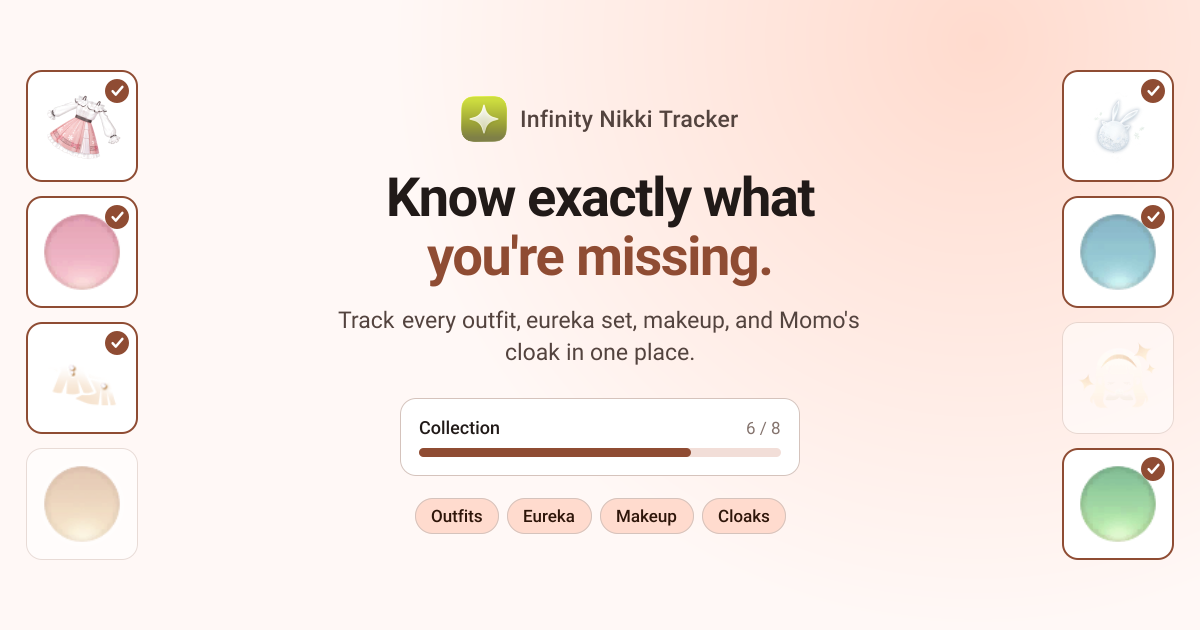
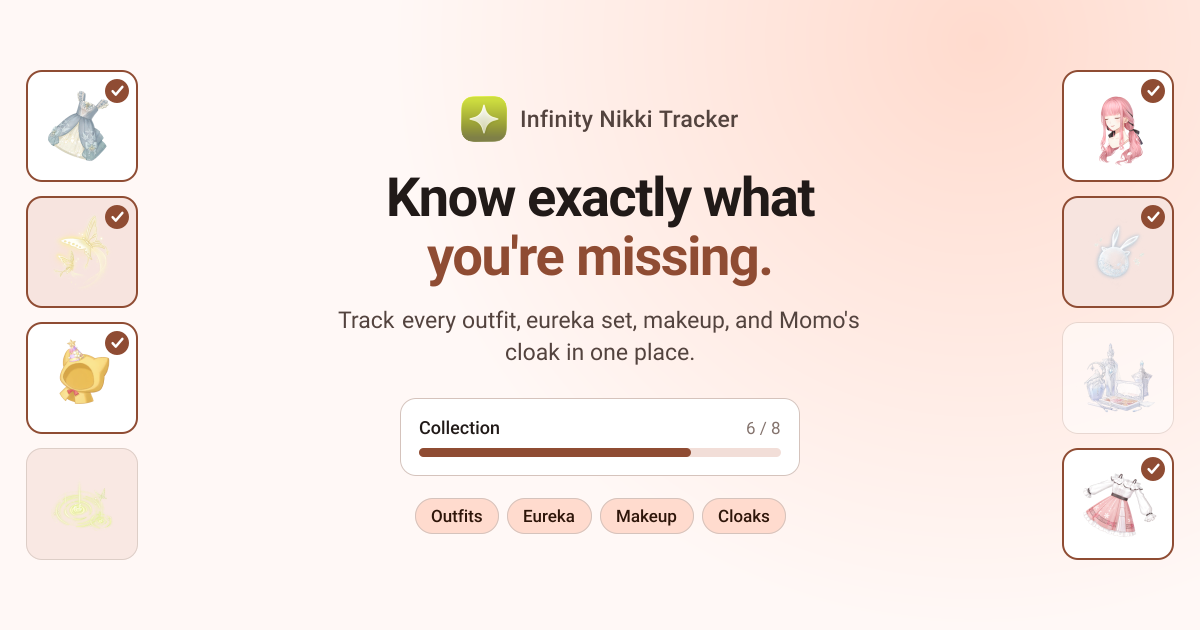
feat(og): use the full set of real quick-access artwork
Swaps the OG card's tile strips onto all eight images in
public/quick-access, so every collection type the copy names is
actually pictured: dresses, hair, a Momo cloak, a makeup set, and
eureka pieces.

The eureka art is glowing line work on transparency and measures far
fainter than the rest (contrast ~11-15 against ~57-73 for the gowns
and hair). On a plain white tile it nearly vanishes, so those pieces
are marked `faint` and sit on a surface tone the way the real cards
do. Their unobtained dimming is also gentler — 0.8 rather than 0.55 —
because stacking a low-contrast piece with the full fade made the
tile read as empty rather than as unobtained.

Each strip opens with a high-contrast piece rather than grouping the
faint ones together, since the top tiles are what a viewer scans first.

diff --git a/lib/og-image-template.tsx b/lib/og-image-template.tsx
@@ -41,20 +41,23 @@ function robotoPath(weight: 400 | 500 | 700) {
 // These are the local copies already shipped in public/ — the collection's own
 // images live in Supabase Storage and can't be fetched at build time.
 const TILE_ART = [
-  // The two full-art pieces lead each strip: they are the only local copies of
-  // real collection artwork, and at 112px they carry the card. The nav glyphs
-  // that follow are sparse line art by design, so they are paired with the
-  // denser Eureka colour swatches rather than stacked together where their
-  // thinness reads as an empty tile.
-  { file: 'public/quick-access/perfect-start-alt.png', obtained: true },
-  { file: 'public/icons/categories/pink.png', obtained: true },
-  { file: 'public/icons/outfits.png', obtained: true },
-  { file: 'public/icons/categories/yellow.png', obtained: false },
+  // All eight are real artwork from public/quick-access. Ordered so each strip
+  // opens with a high-contrast piece: the four-tile strips are what a viewer
+  // scans first, and the eureka pieces are genuinely faint by design (glowing
+  // line art on transparency), so they are interleaved rather than stacked.
+  //
+  // `faint` marks those pale pieces. They get a tinted tile instead of the
+  // plain white one — on white they nearly vanish, which is exactly why the
+  // real cards sit them on a surface tone too.
+  { file: 'public/quick-access/fluttering-wishes-alt.png', obtained: true },
+  { file: 'public/quick-access/afterglow-hands-yellow.png', obtained: true, faint: true },
+  { file: 'public/quick-access/momo-cloak-starwish.png', obtained: true },
+  { file: 'public/quick-access/rainbell-feet-green.png', obtained: false, faint: true },
 
-  { file: 'public/quick-access/first-snow-head-white.png', obtained: true },
-  { file: 'public/icons/categories/blue.png', obtained: true },
-  { file: 'public/icons/eureka.png', obtained: false },
-  { file: 'public/icons/categories/green.png', obtained: true },
+  { file: 'public/quick-access/born-pink-hair.png', obtained: true },
+  { file: 'public/quick-access/first-snow-head-white.png', obtained: true, faint: true },
+  { file: 'public/quick-access/silver-feathers-base-makeup.png', obtained: false },
+  { file: 'public/quick-access/perfect-start-alt.png', obtained: true },
 ] as const
 
 async function dataUri(relPath: string) {
@@ -73,7 +76,15 @@ const SAFE_WIDTH = OG_SIZE.height
 // in the crop margin on purpose — they carry the product's look (obtained
 // cards get the primary border and check badge, missing ones fade back)
 // without holding any text a square crop could destroy.
-function TileStrip({ tiles }: { tiles: { src: string; obtained: boolean }[] }) {
+// Unobtained tiles fade back, but a faint piece is already low contrast —
+// stacking both reductions makes it read as an empty tile, so the dimming is
+// gentler there.
+function tileOpacity({ obtained, faint }: { obtained: boolean; faint: boolean }) {
+  if (obtained) return 1
+  return faint ? 0.8 : 0.55
+}
+
+function TileStrip({ tiles }: { tiles: { src: string; obtained: boolean; faint: boolean }[] }) {
   return (
     <div style={{ display: 'flex', flexDirection: 'column', gap: 14 }}>
       {tiles.map((tile) => (
@@ -87,9 +98,11 @@ function TileStrip({ tiles }: { tiles: { src: string; obtained: boolean }[] }) {
             borderRadius: 16,
             alignItems: 'center',
             justifyContent: 'center',
-            backgroundColor: surface.containerLowest,
+            // Faint eureka art on a plain white tile all but disappears, so it
+            // sits on a surface tone the way the real cards do.
+            backgroundColor: tile.faint ? surface.containerHigh : surface.containerLowest,
             border: tile.obtained ? `2px solid ${primary.main}` : `1px solid ${outlineVariant}`,
-            opacity: tile.obtained ? 1 : 0.55,
+            opacity: tileOpacity(tile),
           }}
         >
           {/* Plain <img>: Satori rasterizes only these; next/image has no
@@ -140,7 +153,11 @@ export async function renderOgPng(): Promise<ArrayBuffer> {
     ...TILE_ART.map((t) => dataUri(t.file)),
   ])
 
-  const tiles = TILE_ART.map((t, i) => ({ src: tileSrcs[i], obtained: t.obtained }))
+  const tiles = TILE_ART.map((t, i) => ({
+    src: tileSrcs[i],
+    obtained: t.obtained,
+    faint: 'faint' in t && t.faint === true,
+  }))
 
   const response = new ImageResponse(
     <div

diff --git a/lib/og-image.ts b/lib/og-image.ts
@@ -3,7 +3,7 @@
 // app/layout.tsx. One string so the two can't describe the same picture
 // differently.
 export const OG_ALT =
-  'Infinity Nikki Tracker — the headline "Know exactly what you\'re missing" above a collection progress bar, flanked by cards of real Infinity Nikki outfit and eureka artwork, some marked obtained'
+  'Infinity Nikki Tracker — the headline "Know exactly what you\'re missing" above a collection progress bar, flanked by cards of real Infinity Nikki artwork: dresses, hair, a Momo cloak, a makeup set, and eureka pieces, some marked obtained'
 
 /** Card dimensions. The 630px height doubles as the safe-zone width: a square
  *  center-crop keeps exactly the middle `OG_SIZE.height` pixels. */
